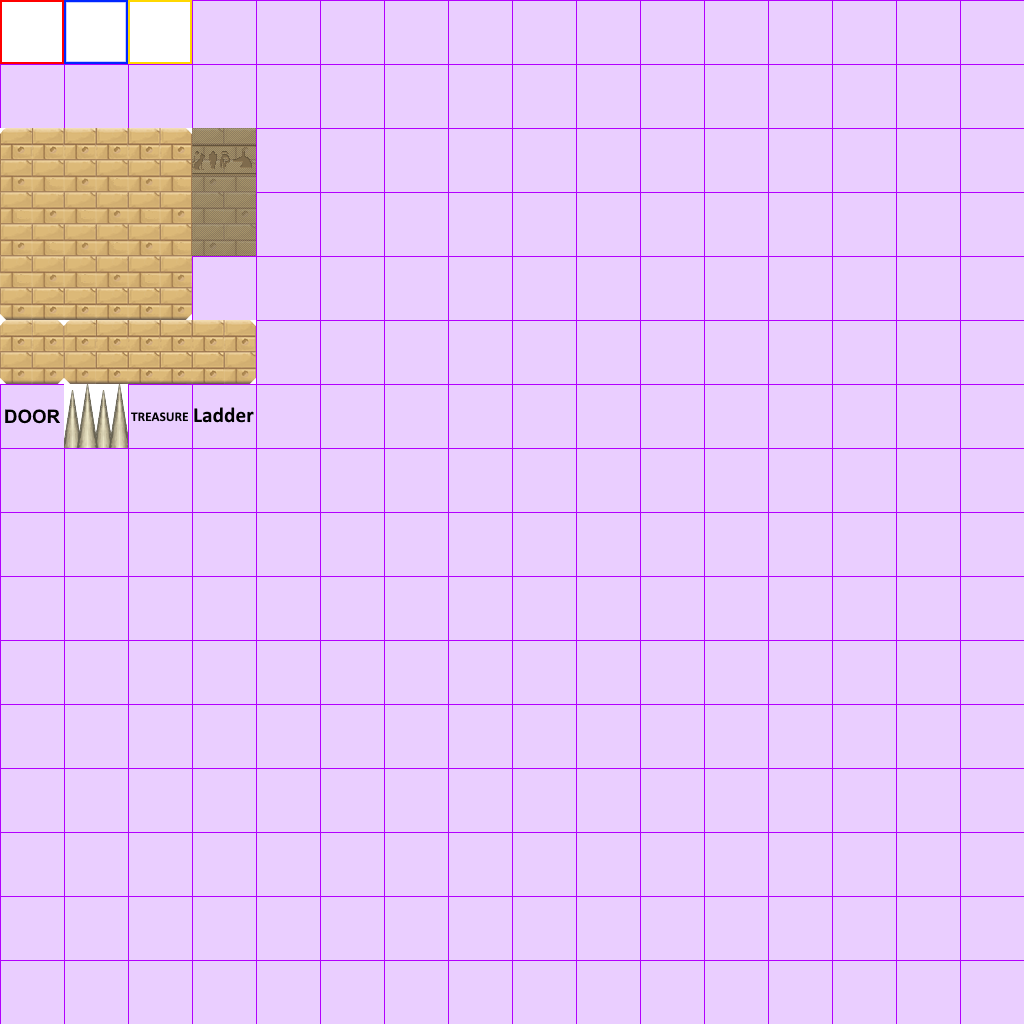
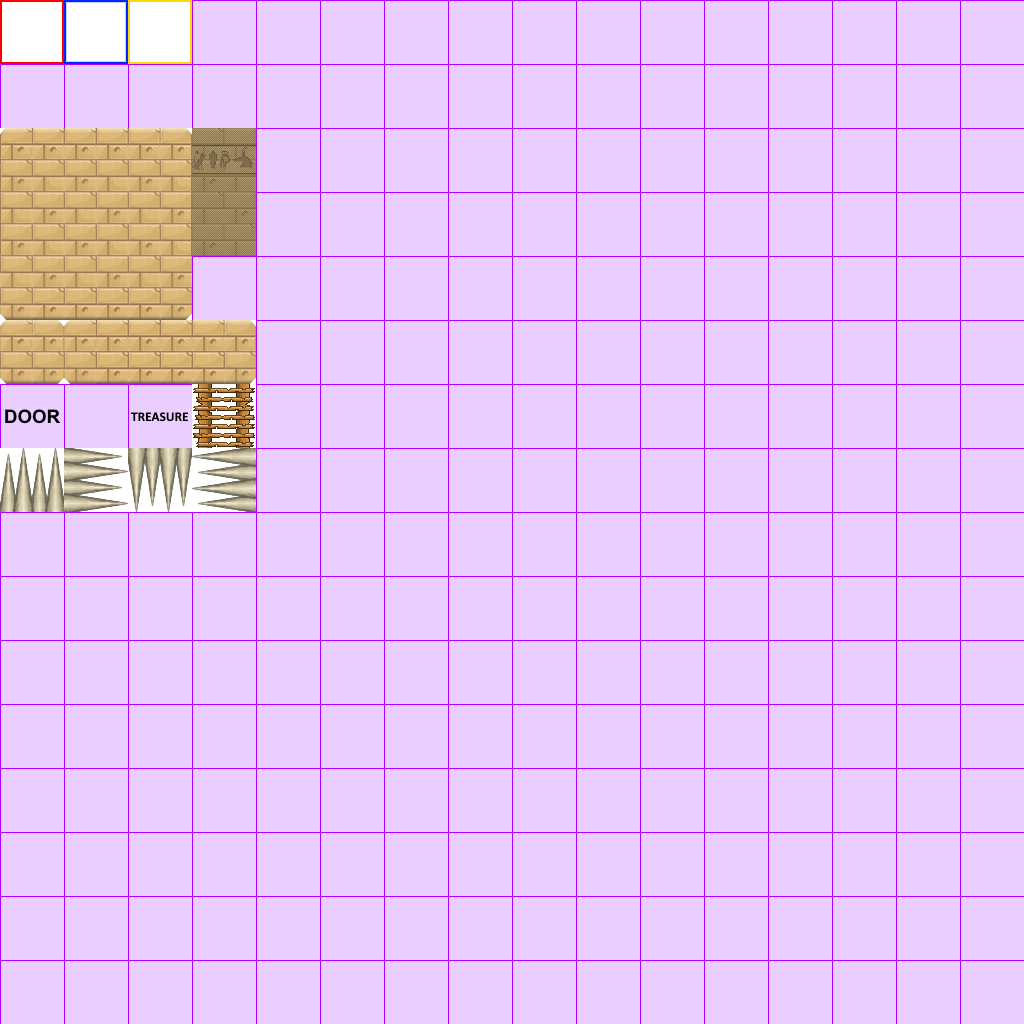
Player ladder anim. Small fixes

Changed region(s): [[0.0, 0.375, 0.25, 0.5]]

diff --git a/core/src/pt/feup/jd/entities/Player.java b/core/src/pt/feup/jd/entities/Player.java
@@ -19,6 +19,7 @@ public class Player extends Entity {
 	static Sprite idle_anim;
 	static Sprite walk_anim;
 	static Sprite jump_anim;
+	static Sprite ladder_anim;
 	static boolean initSprites = false;
 	static void initSprites() {
 		initSprites = true;
@@ -35,6 +36,11 @@ public class Player extends Entity {
 		
 		jump_anim = new Sprite();
 		jump_anim.addFrame(Assets.sprites64[1][3]);
+		
+		ladder_anim = new Sprite();
+		ladder_anim.anim_delay = 1/8f;
+		ladder_anim.addFrame(Assets.sprites64[1][4]);
+		ladder_anim.addFrame(Assets.sprites64[1][5]);
 	}
 	
 	float jumpWindow, jumpWindowDelay;
@@ -65,9 +71,10 @@ public class Player extends Entity {
 	public void update(float delta) {
 		
 		boolean onGround = onGroundWide();
-		boolean onLadder = 
-				(level.getTile((int) (x / JDGame.TILE_SIZE), (int) ((y  - hy*0.5f - 4) / JDGame.TILE_SIZE)) == Tile.LADDER) ||
-				(level.getTile((int) (x / JDGame.TILE_SIZE), (int) ((y  + hy*0.5f) / JDGame.TILE_SIZE)) == Tile.LADDER);
+		boolean feetOnLadder = (level.getTile((int) (x / JDGame.TILE_SIZE), (int) ((y  - hy*0.5f) / JDGame.TILE_SIZE)) == Tile.LADDER);
+		boolean aboveLadder  = (level.getTile((int) (x / JDGame.TILE_SIZE), (int) ((y  - hy*0.5f - 4) / JDGame.TILE_SIZE)) == Tile.LADDER);
+		boolean headOnLadder = (level.getTile((int) (x / JDGame.TILE_SIZE), (int) ((y  + hy*0.5f) / JDGame.TILE_SIZE)) == Tile.LADDER);
+		boolean onLadder = feetOnLadder || headOnLadder || aboveLadder;
 		
 		if (!onGround && onLadder) applyGravity = false;
 		else applyGravity = true;
@@ -75,46 +82,48 @@ public class Player extends Entity {
 		super.update(delta);
 		
 		// Movement
-		
-		if (Gdx.input.isKeyPressed(JDGame.keyBindings.get(JDGame.Keys.LEFT))) {
-			vx = -MOVE_SPEED;
-			direction = -1;
-			setSprite(walk_anim);
-		}
-		else if (Gdx.input.isKeyPressed(JDGame.keyBindings.get(JDGame.Keys.RIGHT))) {
-			vx = MOVE_SPEED;
-			direction = 1;
-			setSprite(walk_anim);
-		}
-		else {
-			setSprite(idle_anim);
-			vx = 0;
-		}
-		
-		if (onGround) {
-			jumpWindow = jumpWindowDelay;
-			jumped = false;
-		} else {
-			setSprite(jump_anim);
-		}
-		
-		jumpWindow = Util.stepTo(jumpWindow,0,delta);
-		
-		if (Gdx.input.isKeyPressed(JDGame.keyBindings.get(JDGame.Keys.UP)) && jumpWindow>0 && !jumped) {
-			vy = JUMP_SPEED;
-			jumped = true;
-		}
-		
-		if (onLadder) {
-			if (Gdx.input.isKeyPressed(JDGame.keyBindings.get(JDGame.Keys.UP))) {
-				vy = LADDER_SPEED;
-			} else
-			if (Gdx.input.isKeyPressed(JDGame.keyBindings.get(JDGame.Keys.DOWN))) {
-				vy = -LADDER_SPEED;
-			} else {
-				vy = 0;
+		if (!dead) {
+			if (Gdx.input.isKeyPressed(JDGame.keyBindings.get(JDGame.Keys.LEFT))) {
+				vx = -MOVE_SPEED;
+				direction = -1;
+				setSprite(walk_anim);
 			}
-		} 
+			else if (Gdx.input.isKeyPressed(JDGame.keyBindings.get(JDGame.Keys.RIGHT))) {
+				vx = MOVE_SPEED;
+				direction = 1;
+				setSprite(walk_anim);
+			}
+			else {
+				setSprite(idle_anim);
+				vx = 0;
+			}
+			
+			if (onGround) {
+				jumpWindow = jumpWindowDelay;
+				jumped = false;
+			} else {
+				setSprite(jump_anim);
+			}
+			
+			jumpWindow = Util.stepTo(jumpWindow,0,delta);
+			
+			if (Gdx.input.isKeyPressed(JDGame.keyBindings.get(JDGame.Keys.UP)) && jumpWindow>0 && !jumped) {
+				vy = JUMP_SPEED;
+				jumped = true;
+			}
+			
+			if (onLadder) {
+				if (!aboveLadder || headOnLadder || feetOnLadder) setSprite(ladder_anim);
+				if (Gdx.input.isKeyPressed(JDGame.keyBindings.get(JDGame.Keys.UP))) {
+					vy = LADDER_SPEED;
+				} else
+				if (Gdx.input.isKeyPressed(JDGame.keyBindings.get(JDGame.Keys.DOWN))) {
+					vy = -LADDER_SPEED;
+				} else {
+					vy = 0;
+				}
+			} 
+		}
 		
 				
 		// Weapon

diff --git a/core/src/pt/feup/jd/levels/Tile.java b/core/src/pt/feup/jd/levels/Tile.java
@@ -22,8 +22,8 @@ public enum Tile {
 /*03*/		SOLID,	SOLID,	SOLID,	AIR,	AIR,	AIR,	AIR,	AIR,	AIR,	AIR,	AIR,	AIR,	AIR,	AIR,	AIR,	AIR,
 /*04*/		SOLID,	SOLID,	SOLID,	AIR,	AIR,	AIR,	AIR,	AIR,	AIR,	AIR,	AIR,	AIR,	AIR,	AIR,	AIR,	AIR,
 /*05*/		SOLID,	SOLID,	SOLID,	SOLID,	AIR,	AIR,	AIR,	AIR,	AIR,	AIR,	AIR,	AIR,	AIR,	AIR,	AIR,	AIR,
-/*06*/		AIR,	SPIKE,	AIR,	LADDER,	AIR,	AIR,	AIR,	AIR,	AIR,	AIR,	AIR,	AIR,	AIR,	AIR,	AIR,	AIR,
-/*07*/		AIR,	AIR,	AIR,	AIR,	AIR,	AIR,	AIR,	AIR,	AIR,	AIR,	AIR,	AIR,	AIR,	AIR,	AIR,	AIR,
+/*06*/		AIR,	AIR,	AIR,	LADDER,	AIR,	AIR,	AIR,	AIR,	AIR,	AIR,	AIR,	AIR,	AIR,	AIR,	AIR,	AIR,
+/*07*/		SPIKE,	SPIKE,	SPIKE,	SPIKE,	AIR,	AIR,	AIR,	AIR,	AIR,	AIR,	AIR,	AIR,	AIR,	AIR,	AIR,	AIR,
 /*08*/		AIR,	AIR,	AIR,	AIR,	AIR,	AIR,	AIR,	AIR,	AIR,	AIR,	AIR,	AIR,	AIR,	AIR,	AIR,	AIR,
 /*09*/		AIR,	AIR,	AIR,	AIR,	AIR,	AIR,	AIR,	AIR,	AIR,	AIR,	AIR,	AIR,	AIR,	AIR,	AIR,	AIR,
 /*10*/		AIR,	AIR,	AIR,	AIR,	AIR,	AIR,	AIR,	AIR,	AIR,	AIR,	AIR,	AIR,	AIR,	AIR,	AIR,	AIR,

diff --git a/core/src/pt/feup/jd/entities/Entity.java b/core/src/pt/feup/jd/entities/Entity.java
@@ -95,10 +95,10 @@ public class Entity {
 				anim_index = 0;
 			}
 		}
-		
 	}
 	
 	public void damage(float damage) {
+		if (dead) return;
 		health = Util.stepTo(health, 0, damage);
 		damage_anim_timer = damage_anim_delay;
 	}
